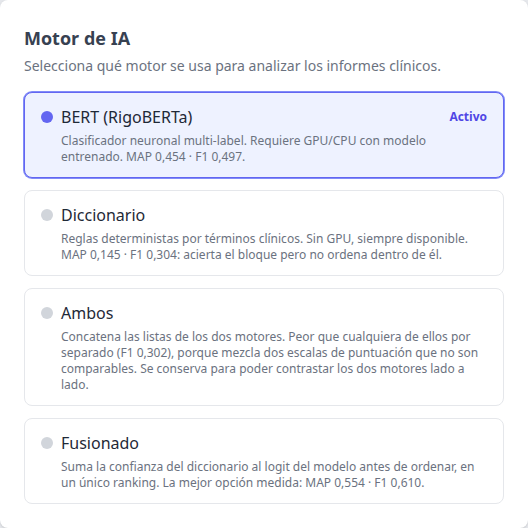
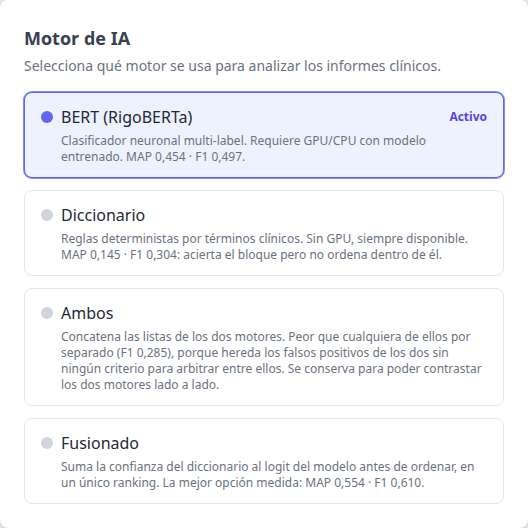
docs(tfg): reformula el tono comercial de viabilidad economica y anade el parrafo de auditoria de dependencias

Changed region(s): [[0.1212, 0.6364, 0.9091, 0.7576]]

diff --git a/tfg/caps/Conclusiones.tex b/tfg/caps/Conclusiones.tex
@@ -95,9 +95,9 @@ Esa misma restricción es la que llevó a \textbf{descartar} la otra línea que 
 
 El sistema es un prototipo académico y no se ha realizado ningún estudio de mercado ni análisis regulatorio que respalde su comercialización. Lo que sí permite el trabajo es señalar qué vías de explotación quedan abiertas y qué condiciones habría que cumplir antes de recorrerlas. Los costes que se citan son los medidos en el despliegue actual; los ingresos son hipótesis sin validar.
 
-\textbf{Modelo de suscripción por usuario}. La plataforma puede monetizarse mediante una suscripción mensual por usuario. El coste de alojamiento medido es de $\sim$330\,€/año, solo consumo eléctrico de la estación de trabajo ya amortizada (Anexo~\ref{cap:AnexoI}), de modo que el gasto de infraestructura no es la partida que condiciona el precio: lo serían el soporte, el cumplimiento normativo y la responsabilidad sobre un sistema que interviene en un proceso clínico. A medida que el número de usuarios crezca, la tarifa puede aumentarse de forma progresiva o diversificarse en planes con distintos niveles de uso.
+\textbf{El coste de alojamiento no es la barrera para explotar el sistema}. El despliegue actual cuesta $\sim$330\,€/año, solo consumo eléctrico de la estación de trabajo ya amortizada (Anexo~\ref{cap:AnexoI}). Cualquier vía de explotación futura no estaría limitada por la infraestructura, sino por el soporte, el cumplimiento normativo y la responsabilidad sobre un sistema que interviene en un proceso clínico: son esos los costes que habría que dimensionar antes de ofrecerlo a terceros, no el hardware.
 
-\textbf{Planes de uso y límites de peticiones}. Una estructura de planes escalonados es la forma natural de monetizar el acceso a la API de predicción. El plan básico puede incluir un número limitado de análisis mensuales, mientras que los planes superiores ofrecen mayor volumen, acceso prioritario o integración directa con sistemas hospitalarios mediante API con límites de peticiones más amplios. Este modelo es habitual en servicios de IA como servicio (\emph{AI-as-a-Service}) y permite ajustar el precio al valor generado: un hospital con varios codificadores a tiempo completo genera un volumen de análisis muy grande, pudiendo incluso instalar instancias on-premise con soporte dedicado.
+\textbf{El volumen de uso es un requisito técnico antes que una decisión de precio}. Un despliegue con varios codificadores concurrentes, por ejemplo en un hospital, exigiría límites de peticiones, prioridad de atención entre usuarios y, a partir de cierto volumen, instancias dedicadas: cuestiones que este prototipo no ha necesitado resolver porque no tiene usuarios reales. Cuantificar ese umbral (cuántas peticiones concurrentes soporta el despliegue actual antes de degradarse) es trabajo pendiente de medición, no una hipótesis de negocio.
 
 \textbf{Realimentación de datos: más usuarios, mejor modelo}. El ciclo de retroalimentación descrito en la sección~\ref{sec:continuous-learning} tiene además una lectura económica: cada usuario que valida o rechaza códigos aporta datos etiquetados por un profesional clínico, el tipo de dato más escaso y de mayor impacto sobre el modelo, de modo que un mayor volumen de usuarios alimenta ciclos de reentrenamiento que mejoran el sistema y refuerzan su utilidad.
 

diff --git a/tfg/anexos/AnexoF.tex b/tfg/anexos/AnexoF.tex
@@ -310,7 +310,7 @@ con $\beta$ ajustado exclusivamente sobre validación. El barrido se extendió h
 \begin{table}[h]
 \centering
 \small
-\caption{Todas las configuraciones de los dos motores, medidas sobre el conjunto de prueba y en el mismo espacio de 1.767 códigos completos. El umbral de decisión de cada configuración se ajusta sobre validación y se aplica sin retocar a prueba. Generada con \texttt{ai\_engine/rerank\_map.py}; el barrido de $\beta$ queda en \texttt{model/fusion\_sweep.json}.}
+\caption{Todas las configuraciones de los dos motores, medidas sobre el conjunto de prueba y en el mismo espacio de 1.767 códigos completos. El umbral de decisión de cada configuración de diccionario/fusión se ajusta sobre validación y se aplica sin retocar a prueba; las filas \texttt{both} no lo optimizan, porque concatenan lo que cada motor ya decide con su propio umbral de producción (nota al pie). Generada con \texttt{ai\_engine/rerank\_map.py}; el barrido de $\beta$ queda en \texttt{model/fusion\_sweep.json}.}
 \label{tab:map-fusion}
 \begin{tabular}{lrrrr}
 \hline
@@ -323,10 +323,13 @@ Modelo de producción solo & 0{,}4342 & 0{,}516 & 0{,}462 & 0{,}487 \\
 \quad + diccionario fusionado & \textbf{0{,}5446} & 0{,}640 & 0{,}560 & \textbf{0{,}597} \\
 \hline
 Mejor modelo entrenado solo & 0{,}4535 & 0{,}549 & 0{,}455 & 0{,}497 \\
-\quad + diccionario concatenado (\texttt{both}) & n/d & 0{,}185 & 0{,}839 & 0{,}304 \\
+\quad + diccionario concatenado (\texttt{both})$^{\dagger}$ & n/d & 0{,}171 & 0{,}851 & 0{,}285 \\
 \quad + diccionario fusionado & \textbf{0{,}5535} & 0{,}644 & 0{,}581 & \textbf{0{,}611} \\
 \hline
 \end{tabular}
+
+\vspace{2mm}
+{\footnotesize $^{\dagger}$ Fila del modelo desplegado, generada con \texttt{make ai-motores} (\texttt{ai\_engine/motores\_eval.py}), que concatena las predicciones de cada motor con su propio umbral de producción (clasificador: 0,2; diccionario: cualquier bloque con un patrón que haga match) y queda en \texttt{model/comparativa\_motores.json} (\texttt{ambos\_concatenado}). La fila equivalente del modelo del paso~36, más arriba, es una medición anterior a este guion y no se ha podido reproducir con la misma herramienta.}
 \end{table}
 
 La tabla contiene tres lecturas que conviene separar.

diff --git a/tfg/caps/Desarrollo.tex b/tfg/caps/Desarrollo.tex
@@ -1038,6 +1038,10 @@ El \emph{endpoint} Phoenix incluye el \emph{plug} \texttt{put\_security\_headers
  \item \texttt{Strict-Transport-Security: max-age=31536000; includeSubDomains} (HSTS) obliga al navegador a usar HTTPS durante un año para el dominio y todos sus subdominios, eliminando la posibilidad de ataques de degradación de protocolo (\emph{SSL stripping}).
 \end{itemize}
 
+\subsubsection{Auditoría de dependencias}
+
+Un sistema que trata datos de salud hereda las vulnerabilidades de todo lo que importa, no solo las de su propio código, así que las tres bases de código se auditan por separado: \texttt{make audit-backend} (\texttt{mix hex.audit} sobre Elixir), \texttt{make audit-js} (\texttt{npm audit} sobre el frontend) y \texttt{make audit-python} (\texttt{pip-audit} sobre el motor de IA), agrupados bajo \texttt{make audit}. Elixir no tiene paquetes retirados ni vulnerables. El frontend partía de diecisiete avisos; \texttt{npm audit fix} resolvió catorce sin subir ninguna dependencia de versión mayor, y las tres restantes están en \texttt{@vitest/mocker}, herramienta de pruebas que no llega al navegador y para la que no hay parche publicado todavía. El motor de IA tiene un aviso sin arreglo publicado en \texttt{diskcache} (\texttt{PYSEC-2026-2447\allowbreak}); es una dependencia transitiva de \texttt{llama\_cpp\_python}, el motor del resumidor LLM, que no se importa desde ningún módulo propio y que además viene desactivado por defecto en producción (sección~\ref{sec:resumidor}), lo que acota el riesgo mientras no se publique una versión corregida.
+
 \subsection{Observabilidad}
 \label{sec:observabilidad}
 
